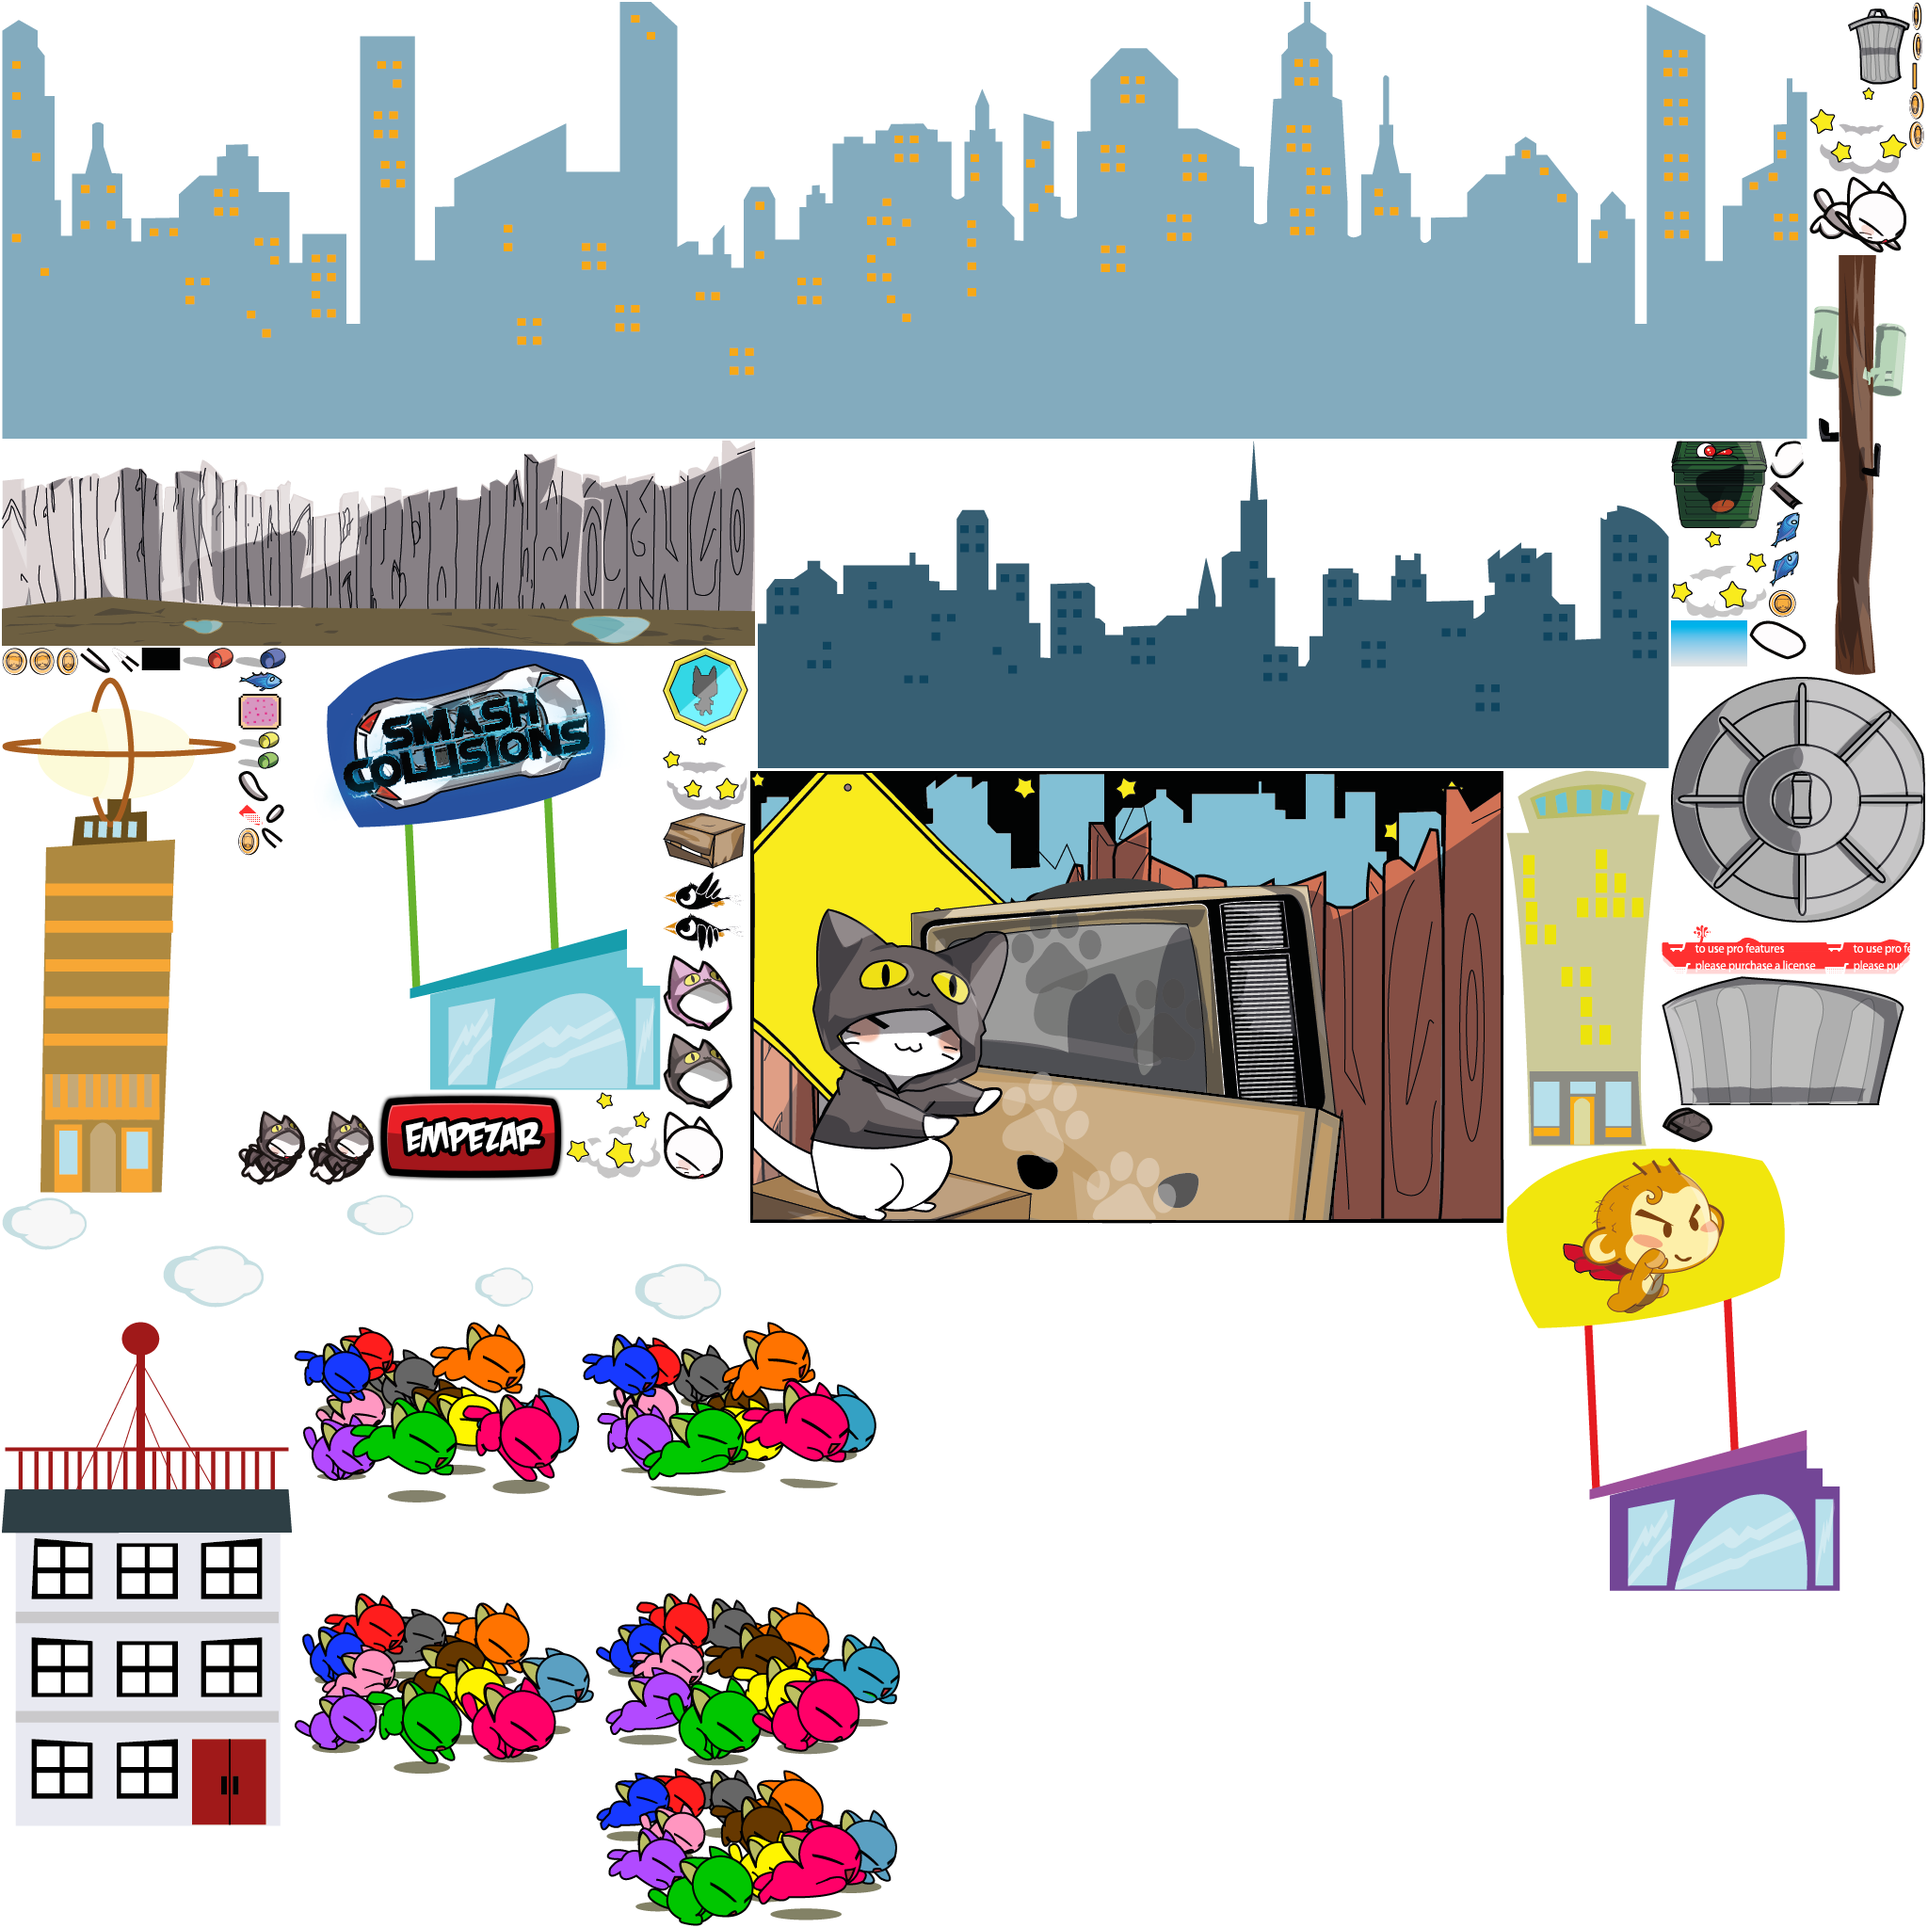
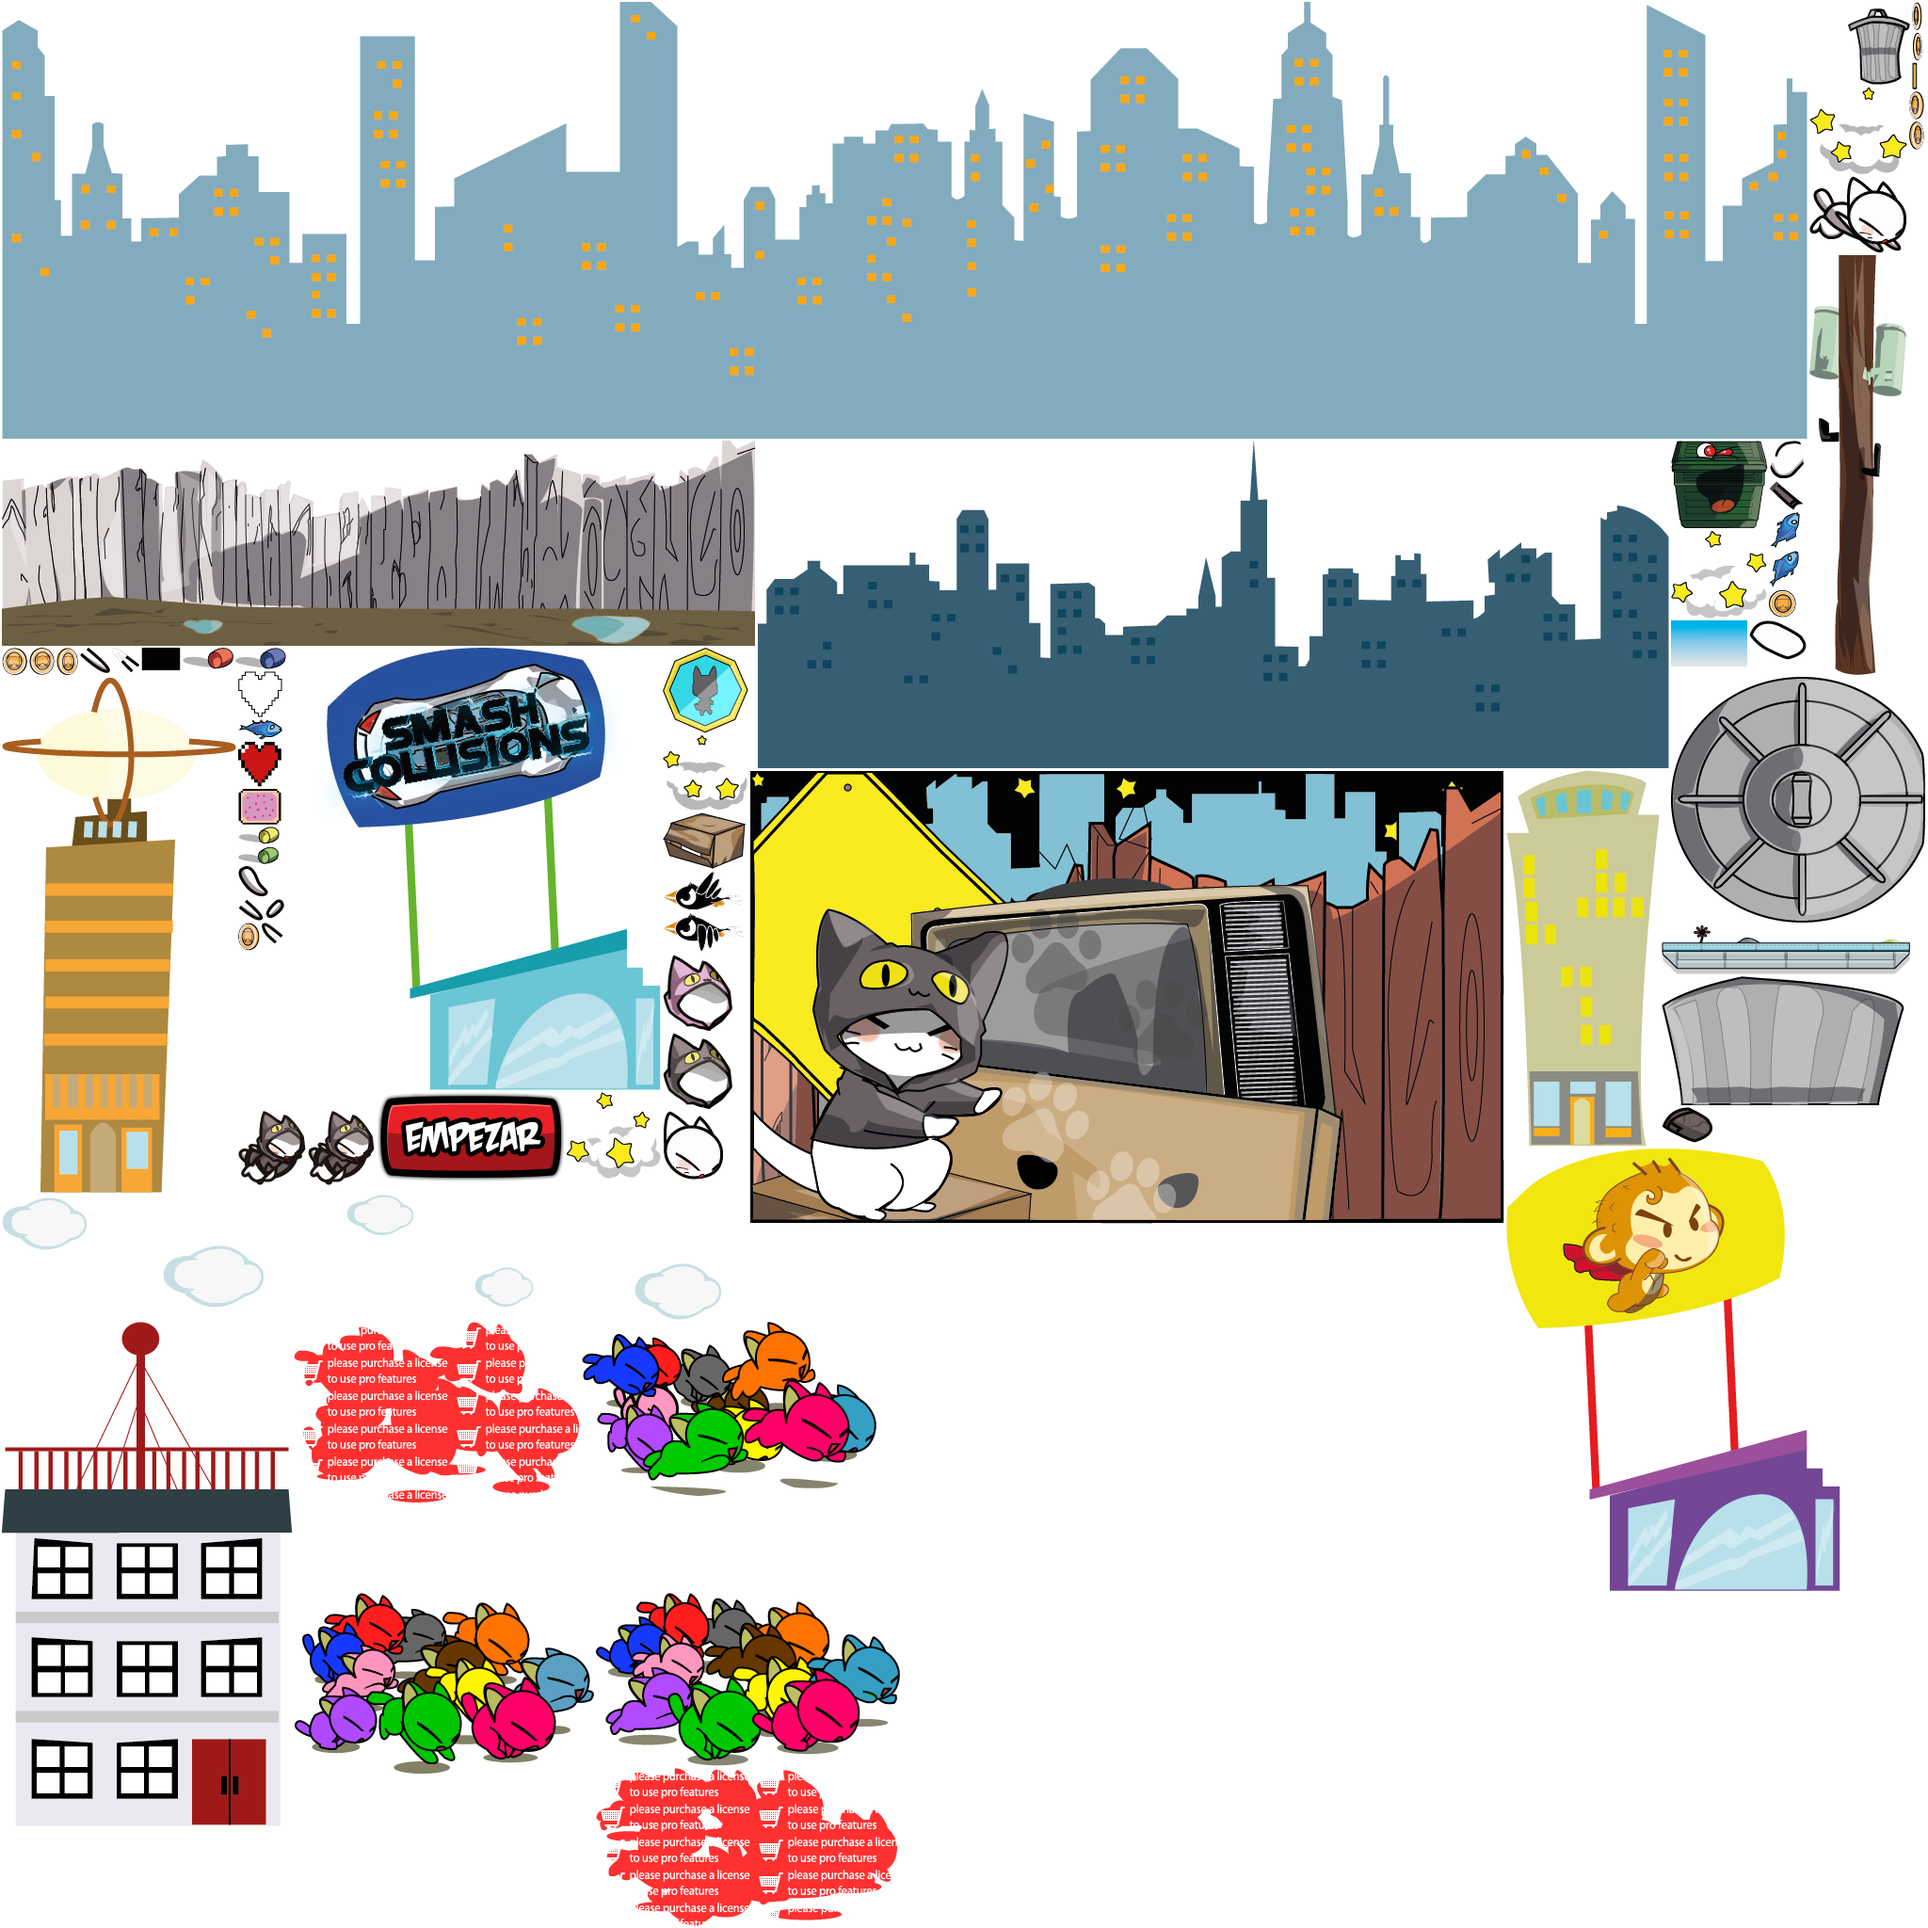
algo en el atlas

diff --git a/Shoppu/src/com/me/objetos/Gato.java b/Shoppu/src/com/me/objetos/Gato.java
@@ -26,6 +26,7 @@ public class Gato {
 	public float statetime;
 	public boolean jump;
 	public int lado;
+	public int vida;
 	public int skin = MathUtils.random(1);
 	float timer;
 	public float angleRad;
@@ -51,6 +52,7 @@ public class Gato {
 		statetime = 0;
 		state = State.cayendo;
 		velocidad = new Vector2();
+		vida = 3;
 
 		
 	}
